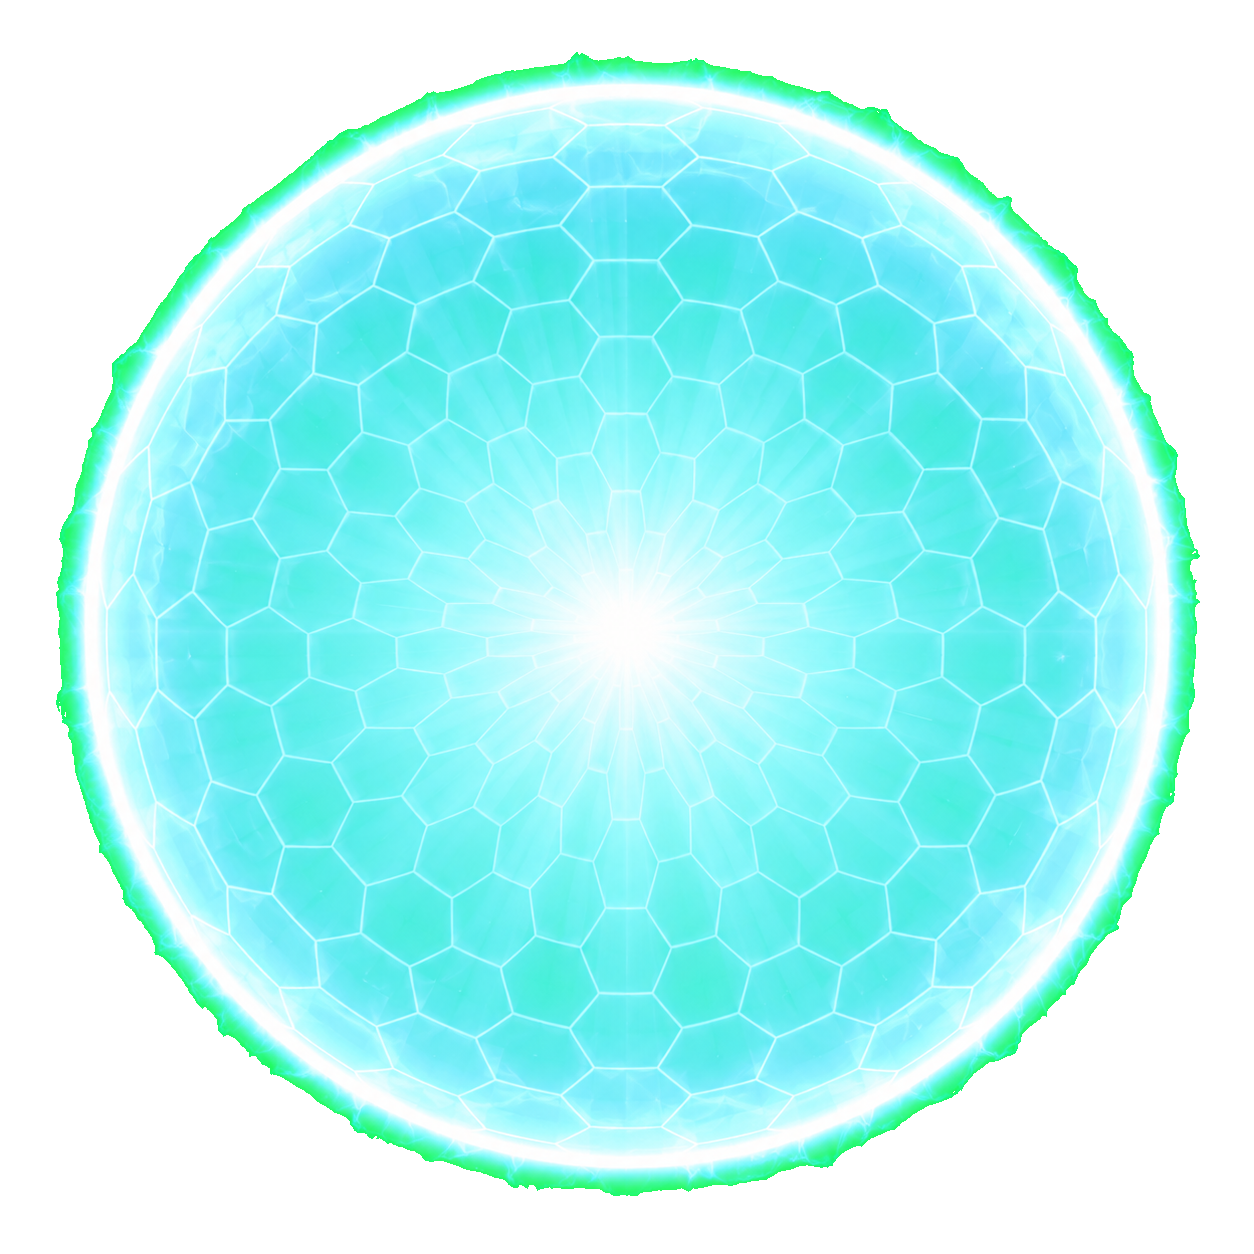
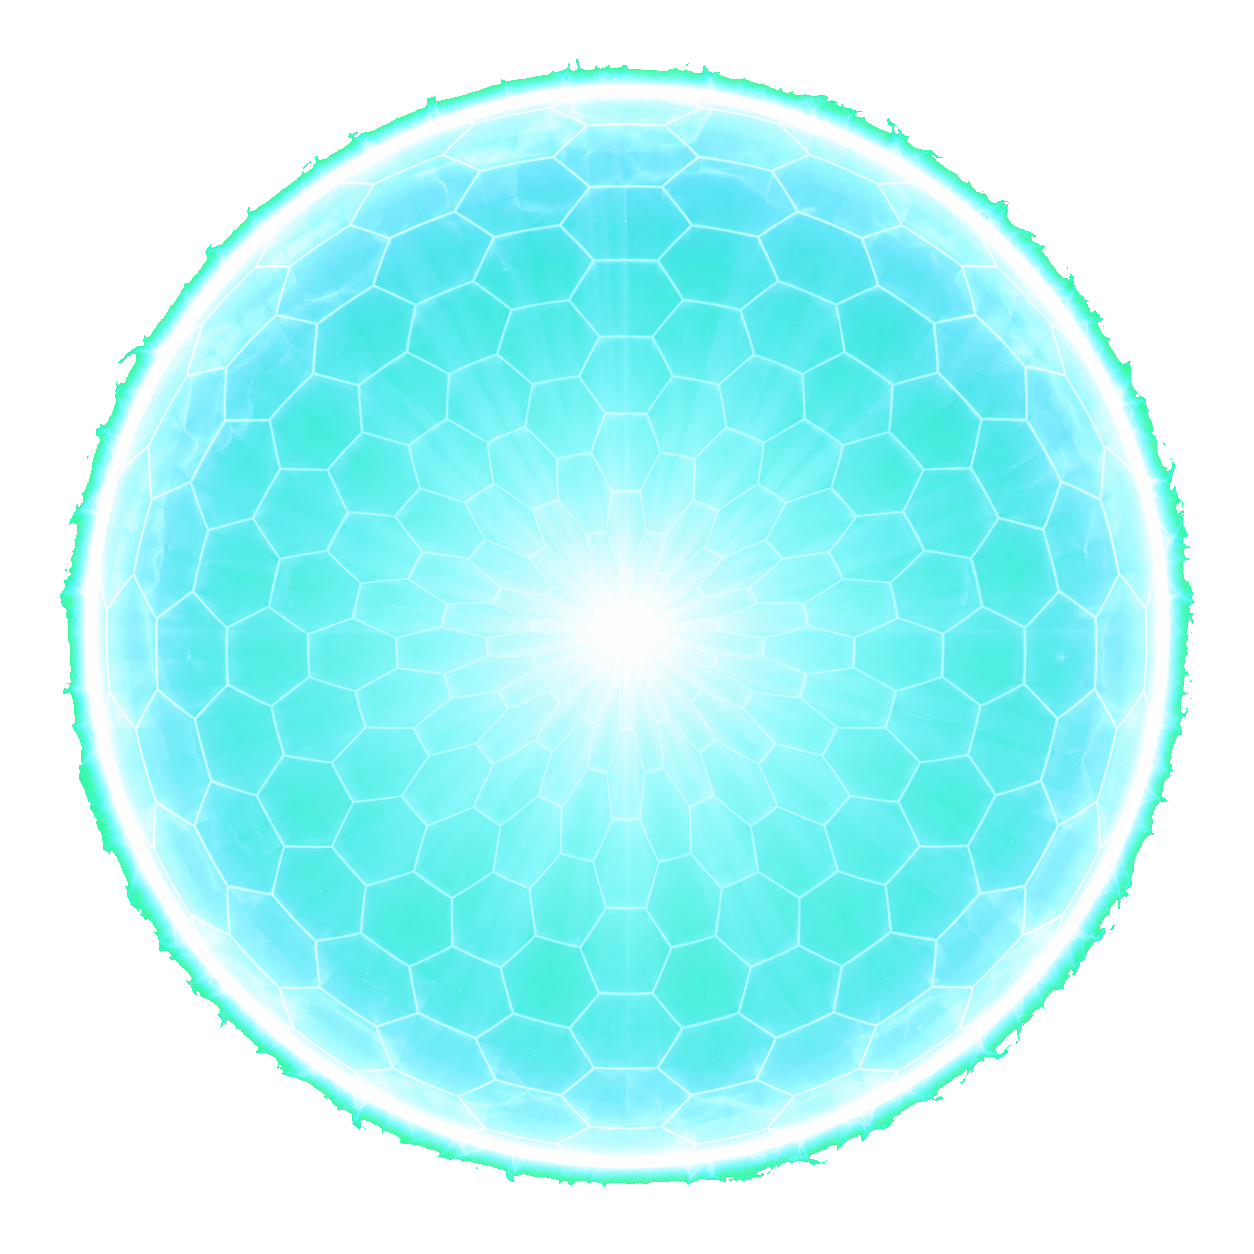
技バリアのテクスチャを透過処理・DownedMarkerのmeta追加
asset/barrier_aura.png（グリーンバック）からChromaGreen相当のアルゴリズムで透過PNGを再生成し、Resources/Effects/barrier_aura.pngを更新。サイズ正規化は既存コードのままで対応。

diff --git a/requirements.md b/requirements.md
@@ -2115,3 +2115,4 @@ APIキーの権限変更で whisper-1（音声認識）と gpt-4o-mini-tts（表
 - **ダウン表示の強化**: 灰色半透明（不透明度固定0.6）だと見つけにくいとの要望を受け、不透明度を0.78〜0.95の範囲で金色にゆっくり明滅させるよう変更（`Fighter.UpdateVisual`）。伏せポーズの沈み込み量（`downedVisualDrop`）も0.35→0.22に浅くし、少し上に見えるようにした。
 - **下矢印マーカーを追加**: ダウン中は頭上にバウンドしながら明滅する下向き矢印（`DownedMarker`、`RuntimeSprite.DownArrow()`で生成）を常時表示し、画面のどこにいても救助対象と分かるようにした。`Fighter.Downed()`で生成し、`IsDowned`が外れると自動で消える。
 - **ボス勝利時のリザルト表記を修正**: `BattleResultUI`で協力モードのボス勝利時、タグは「BOSS」なのに文言が「LOSE」（プレイヤー視点の敗北表記）になっており、「ボスが負けた」ように誤読できる不具合があった。文言を常に「WIN」（勝者陣営のタグ＋WINで統一）に修正し、立ち絵・キャラ名も`bm.Character2`（誤って2Pプレイヤーを表示）ではなく`bm.BossCharacter`（実際に勝ったボス）を表示するよう修正。アクセント色もボス勝利時は`UITheme.Urgent`（赤）にして脅威感を出した。
+- **技バリア（`barrier`アクション）のテクスチャを`barrier_aura.png`から再生成**: `asset/barrier_aura.png`（グリーンバック）から`WhiteBackgroundRemover.ApplyChromaGreen`と同じアルゴリズムで透過PNGを作成し、`Resources/Effects/barrier_aura.png`を更新（サイズは1254×1254px・PPU100のまま変更なし）。表示サイズは既存の`Fighter.CreateBarrierAura`/`BarrierRoutine`側の正規化ロジック（`sprite.bounds.size.x`基準、実効直径 約2.2〜2.4×キャラサイズ倍率）がそのまま効くため変更不要。
